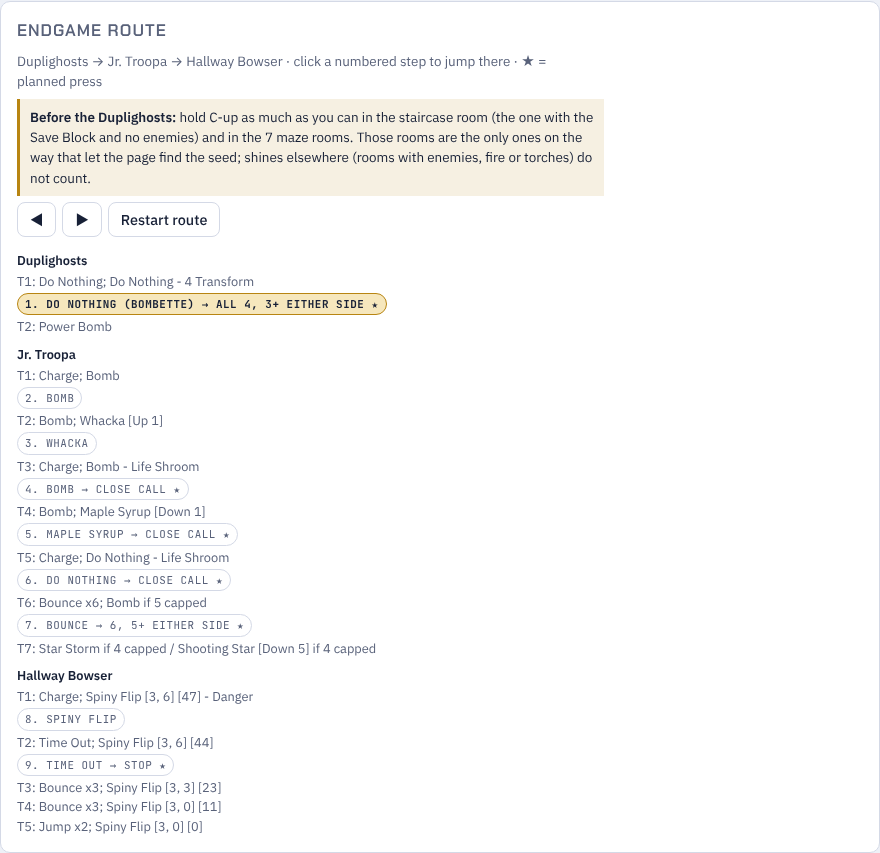
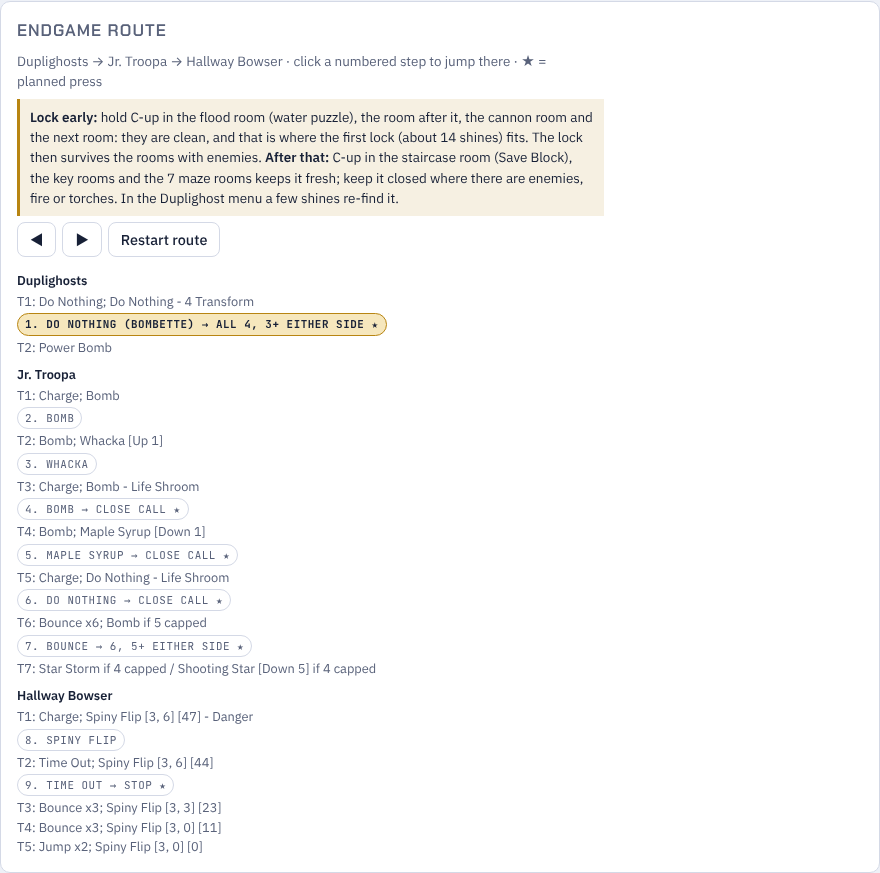
Timer: re-find a lock from short stretches (carry candidates across clean gaps); 2-shine stretches count; lock-early note
Claude-Session: https://claude.ai/code/session_01PAYGgAFM6inphVCTM8p258

Changed region(s): [[0.0, 0.0305, 0.7057, 0.9754]]

diff --git a/pm-kooper-bot/rngtool/page_template.html b/pm-kooper-bot/rngtool/page_template.html
@@ -238,7 +238,7 @@ details[open] summary { margin-bottom: 10px; }
 <aside class="panel side" id="side" aria-label="Endgame route">
     <h2 style="margin:0">Endgame route</h2>
     <p class="note" style="margin:0">Duplighosts → Jr. Troopa → Hallway Bowser · click a numbered step to jump there · ★ = planned press</p>
-      <div id="route" hidden style="display:grid; gap:6px"><p class="note" style="margin:0; padding:8px 10px; border-left:3px solid var(--gold); background:color-mix(in srgb, var(--gold) 12%, transparent); color:var(--ink)"><b>Before the Duplighosts:</b> hold C-up as much as you can in the staircase room (the one with the Save Block and no enemies) and in the 7 maze rooms. Those rooms are the only ones on the way that let the page find the seed; shines elsewhere (rooms with enemies, fire or torches) do not count.</p><div class="row" style="gap:6px"><button class="b" id="route-prev" title="Back one step ([)">◀</button><button class="b" id="route-next" title="Forward one step (])">▶</button><button class="b" id="route-reset">Restart route</button></div><p class="note" id="carry-note" style="margin:0" hidden></p><ol id="route-list" class="note" style="margin:0; padding-left:1.4em"></ol></div>
+      <div id="route" hidden style="display:grid; gap:6px"><p class="note" style="margin:0; padding:8px 10px; border-left:3px solid var(--gold); background:color-mix(in srgb, var(--gold) 12%, transparent); color:var(--ink)"><b>Lock early:</b> hold C-up in the flood room (water puzzle), the room after it, the cannon room and the next room: they are clean, and that is where the first lock (about 14 shines) fits. The lock then survives the rooms with enemies. <b>After that:</b> C-up in the staircase room (Save Block), the key rooms and the 7 maze rooms keeps it fresh; keep it closed where there are enemies, fire or torches. In the Duplighost menu a few shines re-find it.</p><div class="row" style="gap:6px"><button class="b" id="route-prev" title="Back one step ([)">◀</button><button class="b" id="route-next" title="Forward one step (])">▶</button><button class="b" id="route-reset">Restart route</button></div><p class="note" id="carry-note" style="margin:0" hidden></p><ol id="route-list" class="note" style="margin:0; padding-left:1.4em"></ol></div>
 </aside>
 </div>
 
@@ -366,7 +366,7 @@ function pat(taps) { return taps.length ? R.patternFromTaps(taps) : { pattern: '
 /* First lock across gaps: before a lock, each stretch of visible coin is kept (st.chain) instead of thrown away. The
  * coin keeps drawing while it is hidden (measured through Castle room loads), so a gap only leaves the exact frame
  * count open: E (from the tap times) -30..+60 frames, worth about 2 bits. Lock needs 38 bits plus that per gap. */
-const GAP_LO = 30, GAP_HI = 60, CHAIN_MIN = 3;
+const GAP_LO = 30, GAP_HI = 60, CHAIN_MIN = 2;
 function gapWin(tPrev, tNext) { const E = Math.round((tNext - tPrev) / FRAME); return [Math.max(48, E - GAP_LO), E + GAP_HI]; }
 const gapCost = () => Math.log2((GAP_LO + GAP_HI) / 24 + 1);
 function chainBits() { return st.chain.reduce((a, c) => a + bits(pat(c.taps).pattern), 0); }
@@ -480,6 +480,19 @@ function evaluate() {
       }
       return [];
     };
+    m = [];
+    if (st.rcarry && s.taps.length) {                                // continue the previous short stretch's candidates
+      const [lo, hi] = gapWin(st.rcarry.lastTap, s.taps[0]);
+      const c = R.extendCands(st.rcarry.cands, st.rcarry.pattern, P.pattern, lo, hi, 20000);
+      if (c && c.length) {
+        st.cands = c; st.have = st.rcarry.have + bits(P.pattern); st.need = st.rcarry.need + gapCost(); st.tier = 0;
+        if (c.length === 1 && st.have >= st.need) { st.lock = { seg: st.segs.length - 1, seed: c[0] }; st.rcarry = null; updateClock(); }
+        else st.lock = null;
+        if (st.plan && st.lock && st.clock && !planOnTrack()) { cancelBeeps(); st.plan = null; }
+        render(); return;
+      }
+      st.rcarry = null;                                              // the gap was not clean (enemies, a battle): search from the old lock again
+    }
     m = tryResync();
     // Nothing fits: these shines came while something else drew random numbers (level-up confetti, a room with enemies,
     // torches), or after a false detection. Keep only the newest ones; the lock (prevLock) is never dropped for this.
@@ -605,7 +618,7 @@ function tap() {
 function undo() { seg().taps.pop(); evaluate(); }
 function newSegment() {
   if (!st.lock) { st.msg = 'Lock a seed before starting a new segment.'; render(); return; }
-  st.prevLock = lastLockedState(); st.segs.push({ taps: [] }); st.lock = null; st.cands = null; st.turnEv = []; st.hyp = null; st.carryOk = 0; st.needResync = false; render();   // a running plan stays
+  st.prevLock = lastLockedState(); st.segs.push({ taps: [] }); st.lock = null; st.cands = null; st.rcarry = null; st.turnEv = []; st.hyp = null; st.carryOk = 0; st.needResync = false; render();   // a running plan stays
 }
 async function findChain() {
   const cur = seg(), list = st.chain.map(c => c.taps).concat([cur.taps.slice()]);
@@ -631,7 +644,7 @@ async function find() {
   evaluate();
 }
 function cancelPlan() { cancelBeeps(); st.plan = null; render(); }
-function reset() { stopWorkers(); cancelBeeps(); Object.assign(st, { segs: [{ taps: [] }], chain: [], carry: null, turnEv: [], hyp: null, carryOk: 0, inputs: [], needResync: false, cands: null, lock: null, prevLock: null, searching: false, clock: null, plan: null, msg: null, note: null, example: true }); render(); }
+function reset() { stopWorkers(); cancelBeeps(); Object.assign(st, { segs: [{ taps: [] }], chain: [], carry: null, rcarry: null, turnEv: [], hyp: null, carryOk: 0, inputs: [], needResync: false, cands: null, lock: null, prevLock: null, searching: false, clock: null, plan: null, msg: null, note: null, example: true }); render(); }
 $('shine').addEventListener('pointerdown', e => { e.preventDefault(); tap(); });
 $('find').onclick = find; $('gap').onclick = newSegment; $('plan').onclick = makePlan; $('undo').onclick = undo; $('reset').onclick = reset;
 document.addEventListener('keydown', e => {
@@ -1028,8 +1041,12 @@ function coinBack() {
   // not locked: keep this stretch for the chain (first lock across gaps) and start a new one
   const s = seg(), P = pat(s.taps);
   if (!st.prevLock && !P.error && s.taps.length >= CHAIN_MIN) {
-    st.chain.push({ taps: s.taps.slice() }); if (st.chain.length > 8) st.chain.shift();
+    st.chain.push({ taps: s.taps.slice() }); if (st.chain.length > 24) st.chain.shift();
     if (st.cands && st.cands.length) st.carry = { cands: st.cands, pattern: P.pattern, lastTap: s.taps[s.taps.length - 1] };
+  } else if (st.prevLock && !P.error && st.cands && st.cands.length && st.cands.length <= 20000) {
+    // re-finding a lock: carry this stretch's candidates across the (clean) gap into the next stretch, so short
+    // stretches (maze rooms) add up instead of each needing ~6 shines in a row
+    st.rcarry = { cands: st.cands, pattern: P.pattern, lastTap: s.taps[s.taps.length - 1], have: st.have || 0, need: st.need || 0 };
   } else if (st.carry && s.taps.length) st.carry = null;                // a stretch too short to carry through: drop the carry
   s.taps = []; s.raw = []; s.probedAt = 0; s.auto = true; st.cands = null; st.msg = null; render();
 }

diff --git a/pm-kooper-bot/rngtool/test_relock_short.js b/pm-kooper-bot/rngtool/test_relock_short.js
@@ -1,0 +1,33 @@
+/* Re-finding a lock from short stretches (maze rooms): lock seed A, then an enemy room (extra draws, coin hidden),
+ * then stretches of only 2-3 shines with the coin hidden 6-10 s between them (room loads; the coin keeps drawing). No
+ * single stretch has the ~6 shines a resync needs; together they must re-lock on A's trajectory. */
+const { chromium } = require('playwright');
+(async () => {
+  const b = await chromium.launch(); const p = await b.newPage(); const errs = []; p.on('pageerror', e => errs.push(String(e)));
+  await p.goto('file:///tmp/claude-0/-home-user/4de37507-9387-5f1e-bab5-10167305f887/scratchpad/timeout_timer/timeout_timer_standalone.html');
+  for (const seed of [0x0ddba12, 0x5eedf00d, 0x1234abcd, 0x2b2b2b2b]) {
+    const out = await p.evaluate(async seed => {
+      const T = window.__tot, R = T.R, F = R.FRAME_MS, vlag = +document.getElementById('s-vlag').value;
+      document.getElementById('reset').click();
+      const wait = async c => { for (let i = 0; i < 900 && !c(); i++) await new Promise(r => setTimeout(r, 50)); };
+      const S = { s: seed >>> 0, nc: 5, inst: [] }, sh = [];
+      for (let f = 0; f < 9000; f++) { if (f >= 1500 && f < 2100 && f % 37 === 0) for (let k = 0; k < 3; k++) S.s = R.randInt(S.s, 30)[0]; if (R.frameEv(S, f, null)) sh.push(f); }
+      const tap = f => 1e5 + (f + 6) * F + vlag;
+      for (const f of sh.filter(f => f < 1450)) T.addShine(tap(f), true);
+      await wait(() => T.st.lock); if (!T.st.lock) return { skipped: 'no starting lock from 48 s of shines' }; T.coinBack();
+      // short stretches: visible ~7 s (210 frames), hidden ~8 s (240 frames)
+      let n = 0, stretches = 0, at = null;
+      for (let a = 2200; a < 9000 && !T.st.lock; a += 450) {
+        const vis = sh.filter(f => f >= a && f < a + 210).slice(0, 3); if (!vis.length) continue; stretches++;
+        for (const f of vis) { T.addShine(tap(f), true); n++; await wait(() => !T.st.searching); if (T.st.lock) { at = { stretches, shines: n }; break; } }
+        if (!T.st.lock) T.coinBack();
+      }
+      const want = T.st.lock && T.st.lock.seed >>> 0; let onA = false;
+      const S2 = { s: seed >>> 0, nc: 5, inst: [] };
+      for (let f = 0; f < 9000 && !onA; f++) { if (f >= 1500 && f < 2100 && f % 37 === 0) for (let k = 0; k < 3; k++) S2.s = R.randInt(S2.s, 30)[0]; if (f === S2.nc && S2.s >>> 0 === want) onA = true; R.frameEv(S2, f, null); }
+      return { relocked: !!T.st.lock, onTrueTrajectory: onA, after: at };
+    }, seed);
+    console.log(seed.toString(16), JSON.stringify(out));
+  }
+  console.log('errors', errs); await b.close();
+})();

diff --git a/pm-kooper-bot/rngtool/README.md b/pm-kooper-bot/rngtool/README.md
@@ -158,3 +158,12 @@ of all 26 runs matches. On the page the impact frame and the guard are unknown, 
 not) are simulated; candidates in the same RNG state at the current frame are merged, and each shine in T2's menu drops
 the ones that did not predict it. `test_hw_carry.js`: 6 cases (all attacks, guarded or not, impact +141..+163): 1-3
 shines, then Time Out planned and STOP in the game every time.
+
+## Re-finding a lock from short stretches
+
+While a lock is being re-found (after a gap with other random numbers), each stretch's candidate positions are carried
+across the next clean gap (the coin keeps drawing; `R.extendCands`, E-30..+60 frames) instead of being thrown away when
+the coin hides, so short stretches (maze rooms, 2-3 shines each) add up. 2-shine stretches now count for a first lock
+too. Rooms measured clean before the quiz room: kpa_133 (flood), kpa_134, kpa_130 (cannon), kpa_112; kpa_113 is not.
+`test_relock_short.js`: after an enemy room, only 2-3-shine stretches with 8 s gaps: re-locked on the true seed in all
+4 cases (14-18 shines over 6-10 stretches).
